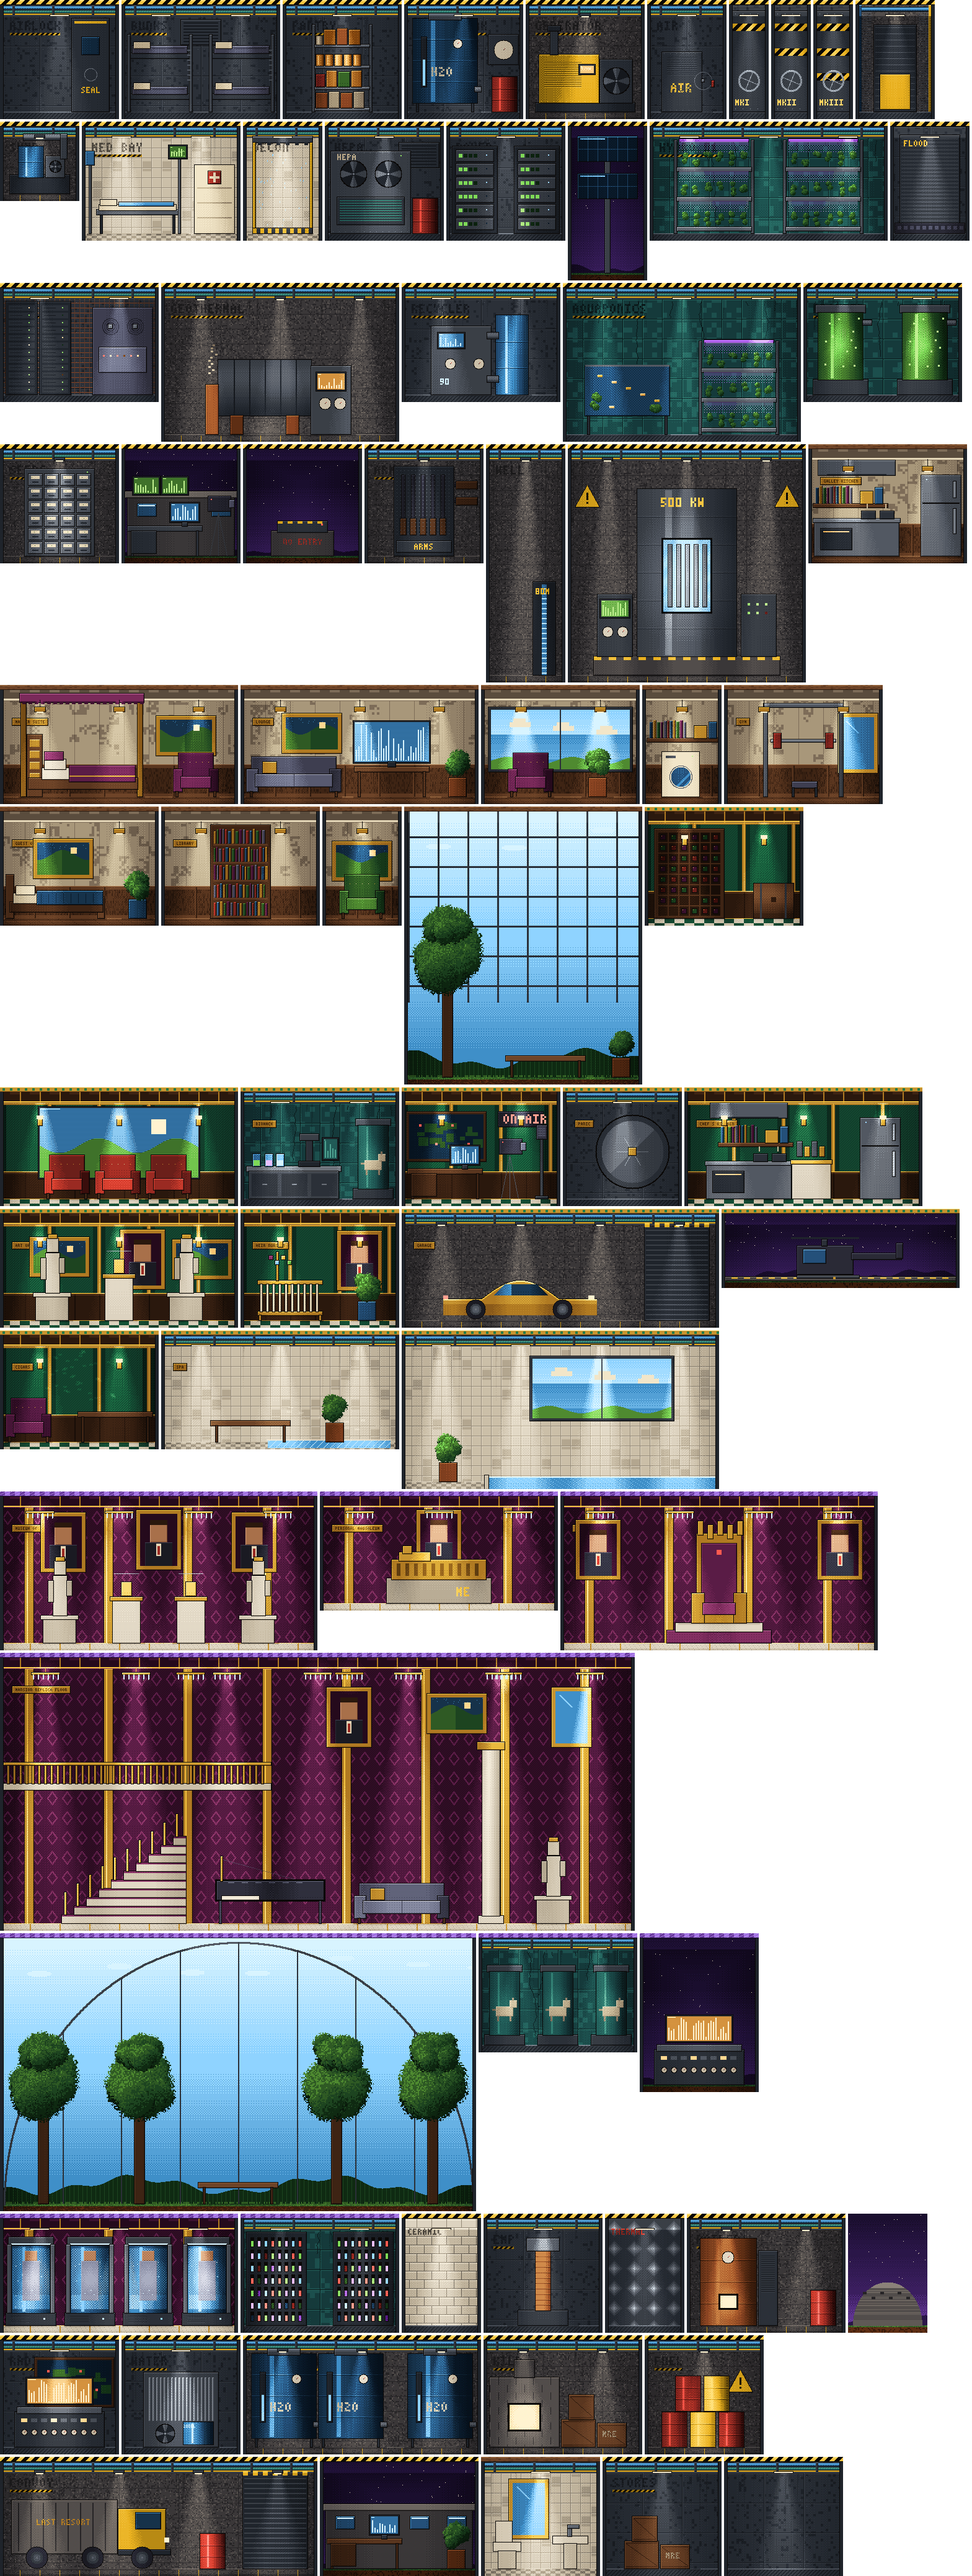
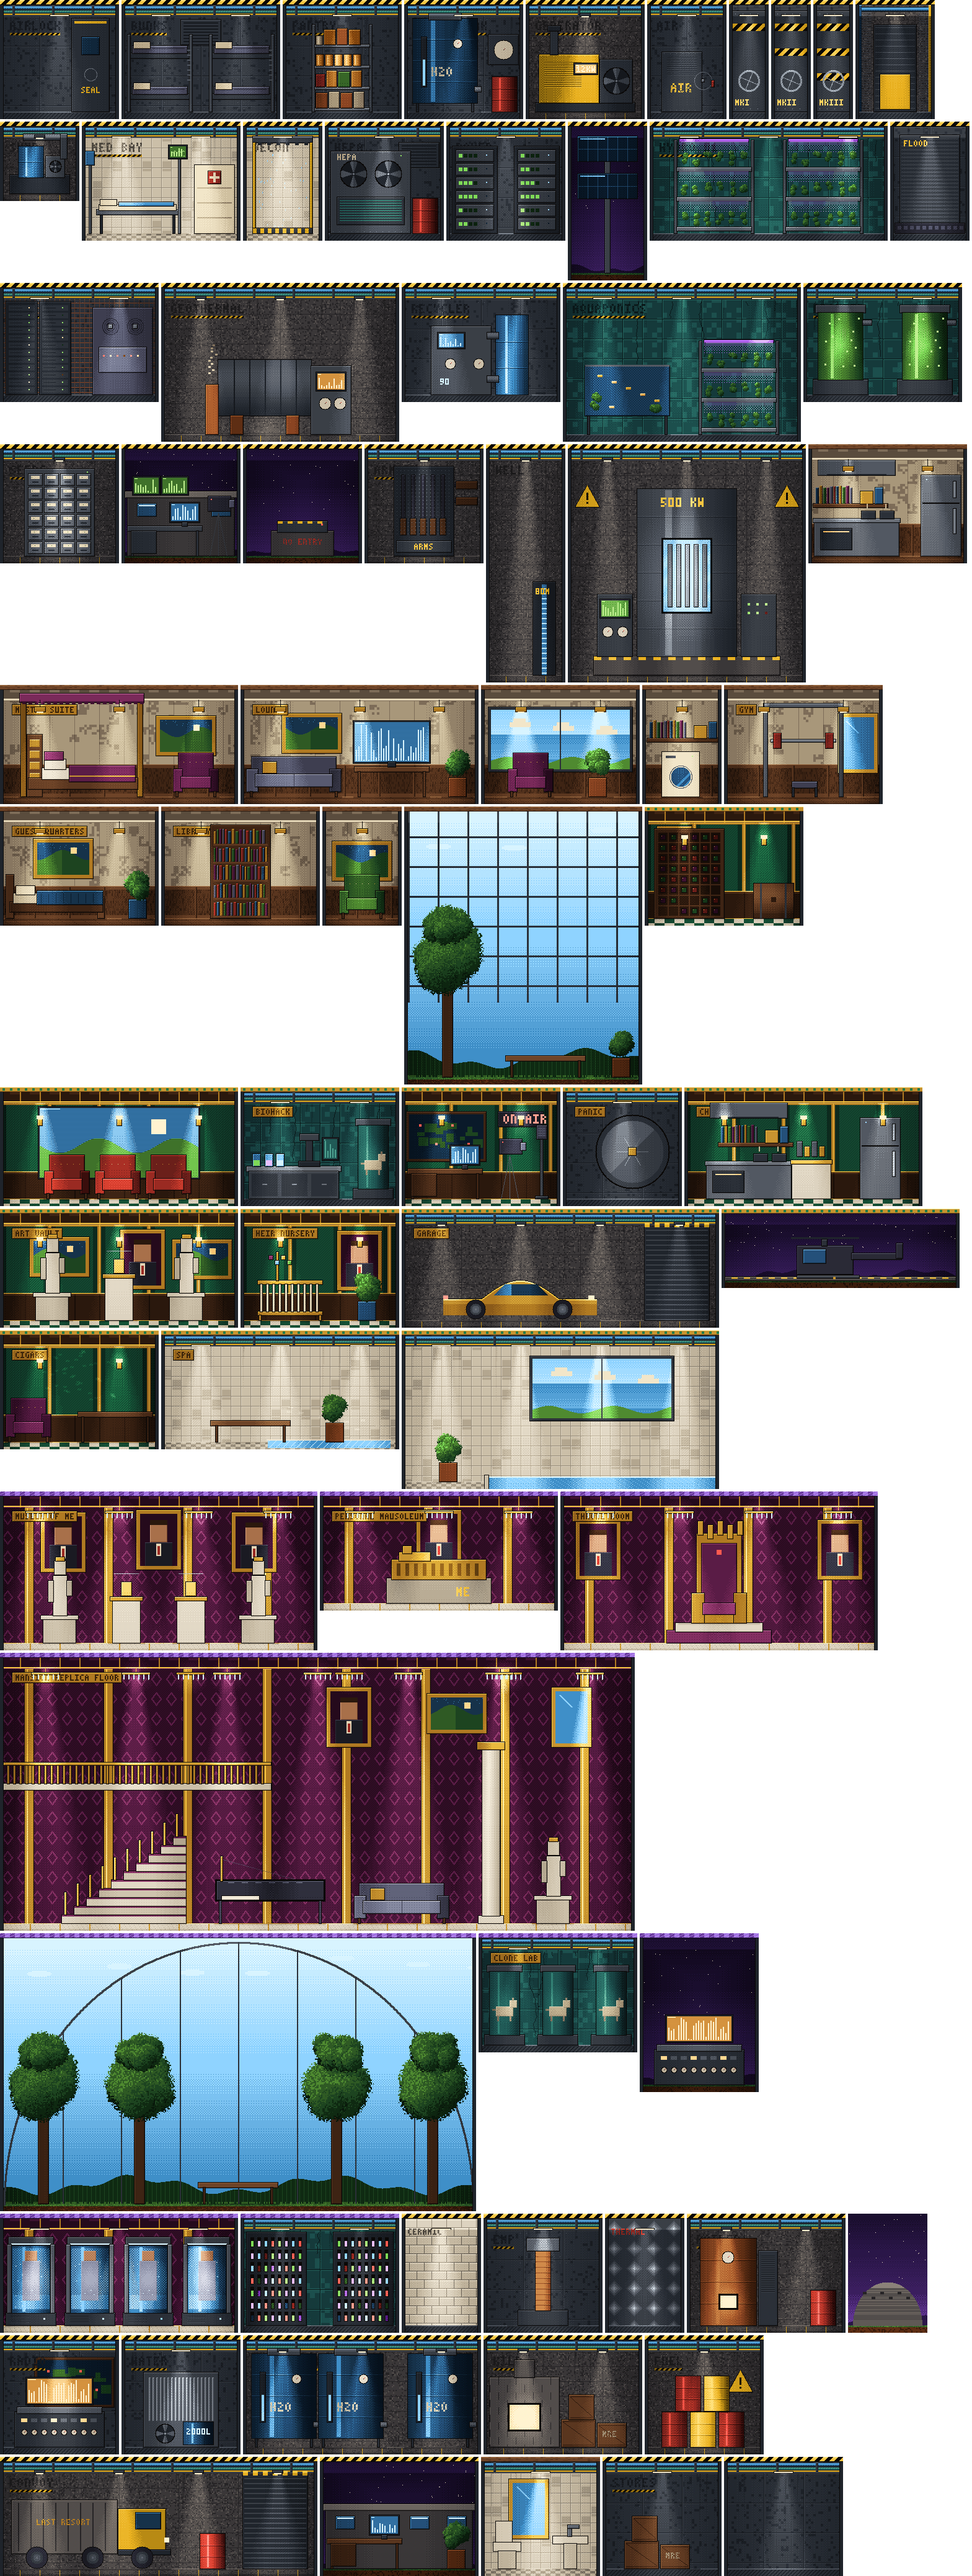
#117 Final room tiles for the full room catalog at the 64 px minimum
Claude-Session: https://claude.ai/code/session_014LNbETjsYkTeCXXkfepBou

diff --git a/src/art/hd/room-tiles.js b/src/art/hd/room-tiles.js
@@ -182,14 +182,14 @@ function signage(b, W, wallTop, style, label, tier) {
   const s = style === 'surface' || style === 'garden' ? null : style;
   if (!s) return;
   if (tier === 'survive' && s !== 'comfort') {
-    const scale = textW(label, 3) <= W - 40 ? 3 : textW(label, 2) <= W - 30 ? 2 : textW(label, 1) <= W - 20 ? 1 : 0;
+    const scale = textW(label, 3) <= W - 40 ? 3 : textW(label, 2) <= W - 30 ? 2 : 0;
     if (!scale) return;
     text(b, label, SIDE + 10, wallTop + 8, col(s === 'lab' ? 'teal' : s === 'concrete' ? 'concrete' : s === 'tile' ? 'marble' : 'steel', 0), scale, { worn: 0.12 });
     if (W >= 160) for (let x = SIDE + 10; x < Math.min(W - SIDE - 10, SIDE + 10 + textW(label, scale)); x++) for (let j = 0; j < 4; j++) b.set(x, wallTop + 8 + 5 * scale + 4 + j, ((x + j) >> 2) % 2 ? K : col('hazard', 3));
   } else {
-    const tw = textW(label, 1); if (tw + 12 > W - 2 * SIDE) return;
+    const tw = textW(label, 2); if (tw + 40 > W - 2 * SIDE) return;
     const px = SIDE + 14;
-    box(b, px, wallTop + 28, tw + 10, 11, 'gold', 4); text(b, label, px + 5, wallTop + 31, col('gold', 1), 1);
+    box(b, px, wallTop + 6, tw + 10, 16, 'gold', 4); text(b, label, px + 5, wallTop + 9, col('gold', 1), 2);
   }
 }
 
@@ -372,9 +372,9 @@ export function renderRoomTile(id, { frame = 0 } = {}) {
   ceiling(b, W, styleName);
   (TRIMS[tier] ?? TRIMS.survive)(b, W, o.frame);
   FLOORS[st.floor](b, 0, W, fy, H);
-  signage(b, W, wallTop, styleName, spec.label ?? (room?.name ?? id).toUpperCase(), tier);
   for (const [name, fx, dy] of spec.wall ?? []) { const p = WALL_PROPS[name]; const x = Math.round(fx * W - p.w / 2); p.draw(b, Math.max(SIDE + 2, Math.min(W - SIDE - 2 - p.w, x)), wallTop + dy, o); }
   if (spec.extra) spec.extra(b, W, H, fy, o);
+  signage(b, W, wallTop, styleName, spec.label ?? (room?.name ?? id).toUpperCase(), tier);
   layout(b, spec.floor ?? [], W, fy, o, spec.extra === airlockDoor || spec.extra === vaultDoor || spec.extra === wellShaft || spec.extra === liftDoor ? 130 : 0, spec.extra === infinityPool ? W - 150 : 0);
   const lampKind = spec.lamp ?? st.lamp;
   const n = Math.max(1, Math.round(W / 140));

diff --git a/src/art/hd/props.js b/src/art/hd/props.js
@@ -148,7 +148,7 @@ export const PROPS = {
     box(b, x + 104, fy - 84, 52, 70, 'steel', 3); fan(b, x + 130, fy - 50, 22, o.frame);
     box(b, x + 24, fy - 132, 12, 40, 'steel', 3); box(b, x + 20, fy - 138, 20, 8, 'steel', 2);
     if (o.frame) for (let i = 0; i < 8; i++) b.rect(x + 24 + Math.floor(hash(i, 2) * 12), fy - 150 - i * 2, 3, 2, col('concrete', 4));
-    screen(b, x + 72, fy - 74, 22, 12, 'amber', o.frame, { bars: false }); text(b, '12KW', x + 74, fy - 72, col('amber', 6), 1, { glow: 1 });
+    screen(b, x + 64, fy - 76, 34, 14, 'amber', o.frame, { bars: false }); text(b, '12KW', x + 66, fy - 74, col('amber', 6), 2, { glow: 1 });
   } },
   battery: { w: 72, draw(b, x, fy, o) {
     shadow(b, x, fy, 72); box(b, x, fy - 140, 72, 140, 'steel', 2);
@@ -201,7 +201,7 @@ export const PROPS = {
   } },
   condenser: { w: 120, draw(b, x, fy, o) {
     shadow(b, x, fy, 120); box(b, x, fy - 120, 120, 120, 'steel', 4); for (let i = 8; i < 112; i += 6) box(b, x + i, fy - 112, 3, 70, 'steel', 6, { outline: false });
-    fan(b, x + 34, fy - 22, 16, o.frame); cyl(b, x + 64, fy - 40, 48, 36, 'water', 3); text(b, '2000L', x + 64, fy - 36, col('water', 6), 1, { glow: 1 });
+    fan(b, x + 34, fy - 22, 16, o.frame); cyl(b, x + 64, fy - 40, 48, 36, 'water', 2); text(b, '2000L', x + 69, fy - 30, col('water', 6), 2, { glow: 1 });
   } },
   // ---------------- kitchens, seating, rec
   stove: { w: 136, draw(b, x, fy, o) {

diff --git a/src/art/hd/raster.js b/src/art/hd/raster.js
@@ -204,9 +204,12 @@ const G = {
   9: ['###', '#.#', '###', '..#', '##.'], '-': ['...', '...', '###', '...', '...'], '.': ['...', '...', '...', '...', '.#.'],
   ' ': ['...', '...', '...', '...', '...'], "'": ['.#.', '.#.', '...', '...', '...'], '&': ['.#.', '#.#', '.#.', '#.#', '.##'],
 };
-export const textW = (s, scale = 1) => Math.max(0, String(s).length * 4 * scale - scale);
-/** Stencil text. `worn` knocks out a few pixels so painted signs look old. */
-export function text(b, s, x, y, ci, scale = 1, { worn = 0, glow = 0 } = {}) {
+export const textW = (s, scale = 2) => Math.max(0, String(s).length * 4 * scale - scale);
+/** Stencil text. `worn` knocks out a few pixels so painted signs look old. Glyphs are never under 10 px tall
+ *  (style guide rule 3: in-world text at least 8 px), so the scale is at least 2. */
+export const MIN_TEXT_SCALE = 2;
+export function text(b, s, x, y, ci, scale = MIN_TEXT_SCALE, { worn = 0, glow = 0 } = {}) {
+  scale = Math.max(MIN_TEXT_SCALE, scale);
   [...String(s).toUpperCase()].forEach((ch, i) => {
     const g = G[ch] ?? G[' '];
     g.forEach((row, gy) => {

diff --git a/tests/room-tiles.test.js b/tests/room-tiles.test.js
@@ -39,3 +39,8 @@ test('room tiles: palette-only, fully painted, detailed, and each one distinct',
     seen.set(sha, id);
   }
 });
+
+test('room tiles: in-world text is never under 8 px tall (style guide rule 3)', async () => {
+  const { MIN_TEXT_SCALE } = await import('../src/art/hd/raster.js');
+  assert.ok(MIN_TEXT_SCALE * 5 >= 8);
+});

diff --git a/docs/art/style-guide.md b/docs/art/style-guide.md
@@ -120,8 +120,8 @@ The world map is the one place where these rules replace the general ones above:
 **7. Readable beside the shelter grid.** The map is the world above: cooler and calmer than the warm, lit bunker. Its brightest land tone stays below the bunker's gold and lamp colours, so a glance tells the two canvases apart. The crisis overlays (gold, amber, red tints and rims) must read on every biome at 1×; check any new biome against all three.
 ![readability](world-map-rules/07-readability.png)
 
-## The 64 px minimum (art note D4; room tiles #117)
-Director's note D4: "all assets need to be 64bit now minimum". Until #113 records the exact definition, the art built for it reads this as **64 px per metre, and never under 64 px on a side**. That is four times the old 16 px grid, so a 4 × 3 m Bunk Room tile is 256 × 192 px.
+## Room tiles at 64 px (#117)
+Room tiles follow the "64" rule above (#113): **64 px per metre, never under 64 px on a side**, and in-world text at least 8 px tall (the 3×5 glyphs drawn at 2× or more). A 4 × 3 m Bunk Room tile is 256 × 192 px.
 
 At this size flat fills look like vector art, so 64 px art follows these rules (`src/art/hd/`):
 1. **Ramps, not colours.** Every material is a 5–8 step ramp in `HD_RAMPS` (`src/art/hd/raster.js`): steel, teal lab tile, concrete, walnut, plaster, gold, velvet, marble, emerald, violet and so on. No colour outside them can be drawn.
@@ -131,4 +131,4 @@ At this size flat fills look like vector art, so 64 px art follows these rules (
 5. **Wear in clusters.** Grime streaks run down from seams in 2–3 px columns, and cracks are 1 px lines. No single-pixel noise.
 6. **Two frames** at 500 ms, as before: LEDs, fans, screens, flames and pod glow.
 
-Tiles: `renderRoomTile(id)` headless or `drawRoomTile(ctx, id, x, y)` in the browser; `node tools/export-room-tiles.mjs` writes `assets/art/room-tiles.png` and its atlas. `tests/room-tiles.test.js` checks that every room has a tile at 64 px per metre, uses palette colours only, is fully painted and is distinct from every other tile.
+Tiles: `renderRoomTile(id)` headless or `drawRoomTile(ctx, id, x, y)` in the browser; `node tools/export-room-tiles.mjs` writes `assets/art/room-tiles.png` and its atlas. `tests/room-tiles.test.js` checks that every room has a tile at 64 px per metre, uses palette colours only, is fully painted and is distinct from every other tile. Each tile is also listed in the asset inventory, so `node tools/check-asset-minimum.mjs` measures it.

diff --git a/.ballast/reports/t117.md b/.ballast/reports/t117.md
@@ -1,0 +1,18 @@
+STATUS: DONE
+Every room in the catalog now has a finished room tile at the 64 px minimum: all 73 rooms and fixtures, plus the washroom, storeroom and empty room. Each tile is 64 px per metre of the room's size, so a 4 × 3 m Bunk Room is 256 × 192.
+- All tiles share one room shell, dressed by needs tier: steel, lab tile or concrete with stencilled names for Survive; walnut and plaster for Comfort; emerald and gold for Status; violet damask and chandeliers for Delusion. The tier trim beam is always kept.
+- One lighting pass covers every tile: the room sits in shadow and each lamp throws a dithered cone, and screens, LEDs and pod glow animate on 2 frames.
+- In game: open the bunker builder and click inside a room. Its tile now appears at the top of the room panel.
+- Checks: every tile passes the asset minimum check and a new tile test (size, palette-only colours, text at least 8 px tall, no two tiles alike).
+- Compared against ref 1 (bf67f06d5b, the dark lab): close on mood, lighting cones, cracked lab tile and hazard trim. It doesn't yet match the reference's grime and layered depth, and props are simpler, with no cables or foliage spilling over the walls. Ref 2 (c002838c33) is also close on wall wear and door detail, but its rooms are fuller.
+- Assumption: the tiles are cards for the room panel, the gallery and future catalog screens. The grid itself still draws at 16 px until the director confirms the 64 px grid.
+- Captures in this task's captures folder: in-game room panel, all 76 tiles at 1×, survive / comfort-status / delusion sheets at 2×, and a 2-frame cryo pod bay clip.
+PR: https://github.com/nsmith-gd/apocalypsetycoon/pull/PRNUM
+
+## Questions
+### Should the built bunker itself switch to the new 64 px room art, or keep it on the room cards for now?
+Context: when you click a room in the bunker builder, a large, lit picture of that room now appears in the side panel. The bunker grid where you dig and place furniture still shows the old, smaller art, so the two don't match yet. Switching the grid means the whole view becomes four times larger, with more scrolling or zooming.
+Options: - Keep the new art on room cards (panel, catalog, showroom) and the grid as it is for now
+- Switch the grid to 64 px, with the camera zoomed out by default
+Going with: room cards only for now, since the grid size is still waiting on your confirmation of the 64 px rule.
+Capture: ingame-room-inspector.png
